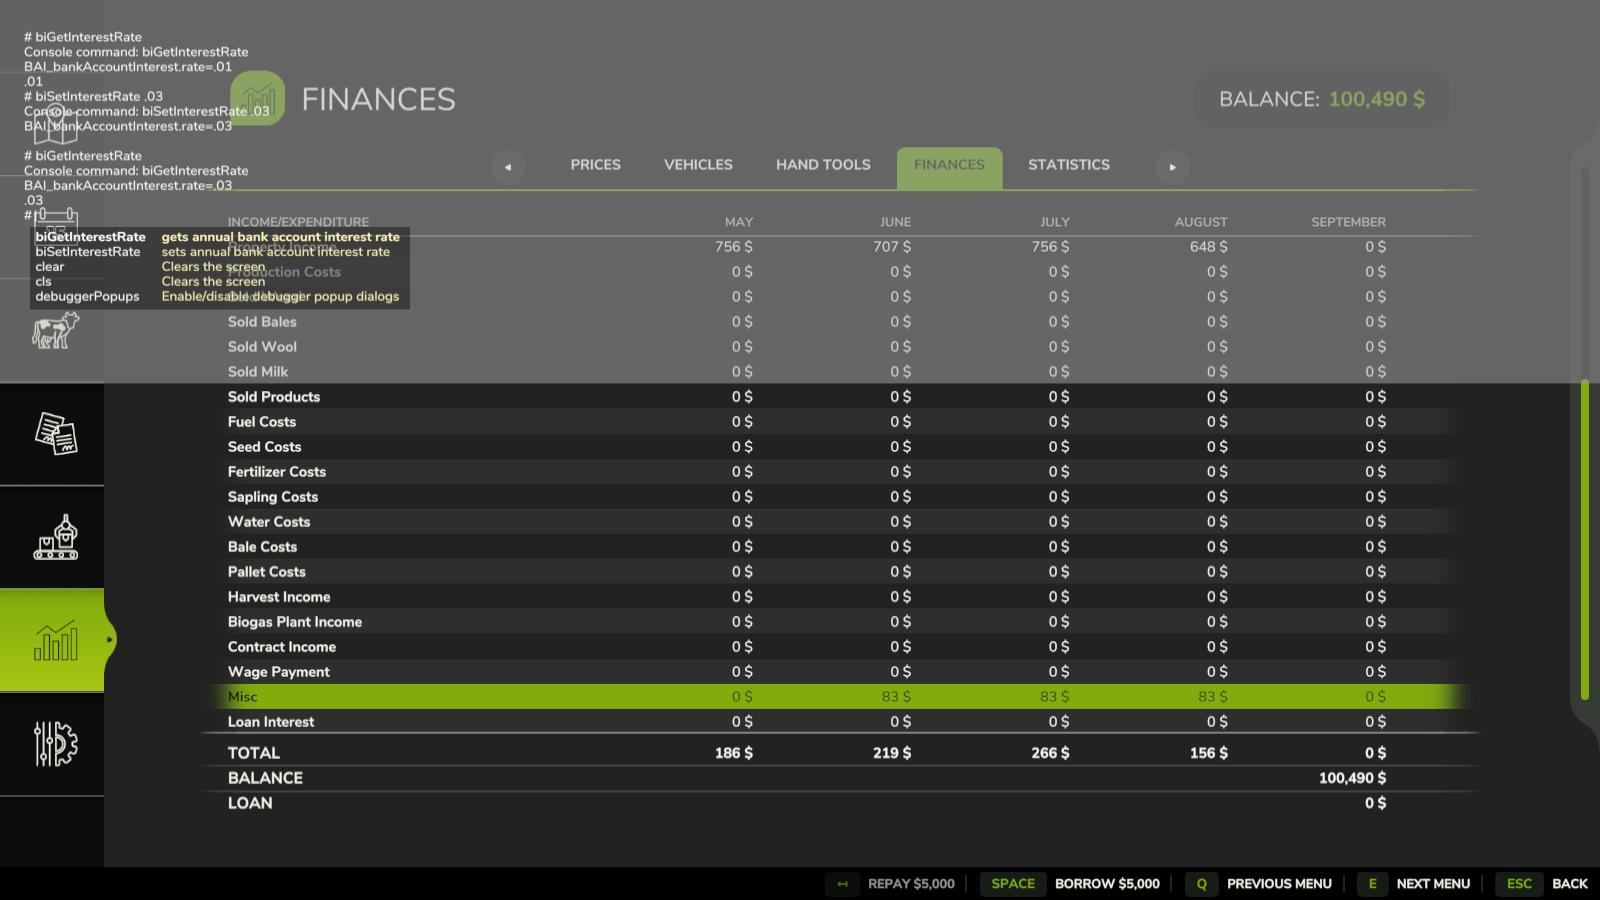
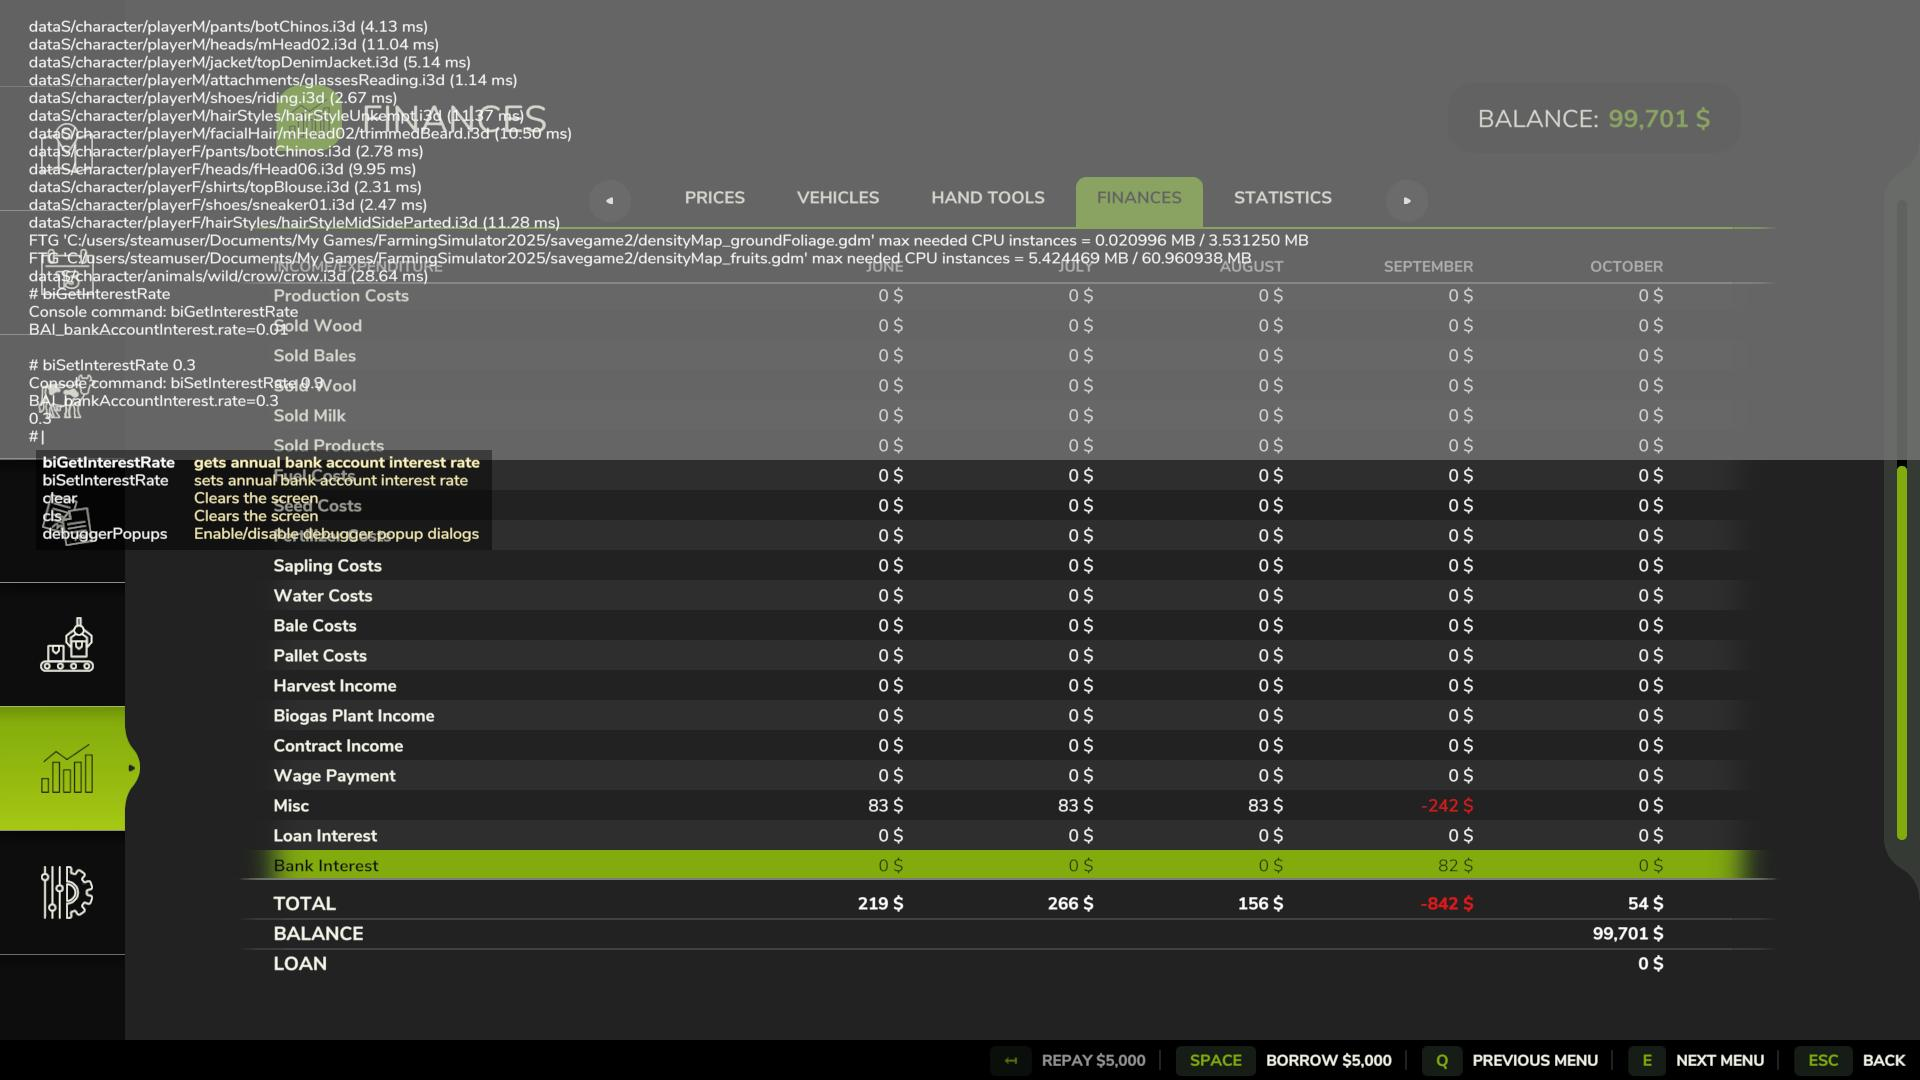
Update readme and add screenshots

diff --git a/README.md b/README.md
@@ -1,9 +1,9 @@
 # :moneybag: FS25 Bank Account Interest
 Adds interest calculations so that a farm's bank balance earns interest at the beginning of every month. The default rate is 1% APY.
 
-Two dev console commands have been added to control the interest rate:
-  `biSetInterestRate <interest_rate>` - allows the modification of the interest rate. ex: `biSetInterestRate 0.01` would set the interest rate to the default.
-  `biGetInterestRate` - prints the current interest rate to the console.
+Two dev console commands have been added to control the interest rate:  
+<br/>`biSetInterestRate <interest_rate>` - allows the modification of the interest rate. ex: `biSetInterestRate 0.01` would set the interest rate to the default.  
+<br/>`biGetInterestRate` - prints the current interest rate to the console.
 
 ## :hammer_and_wrench: Manual build instructions
 `git archive -o FS25_bankAccountInterest.zip HEAD`